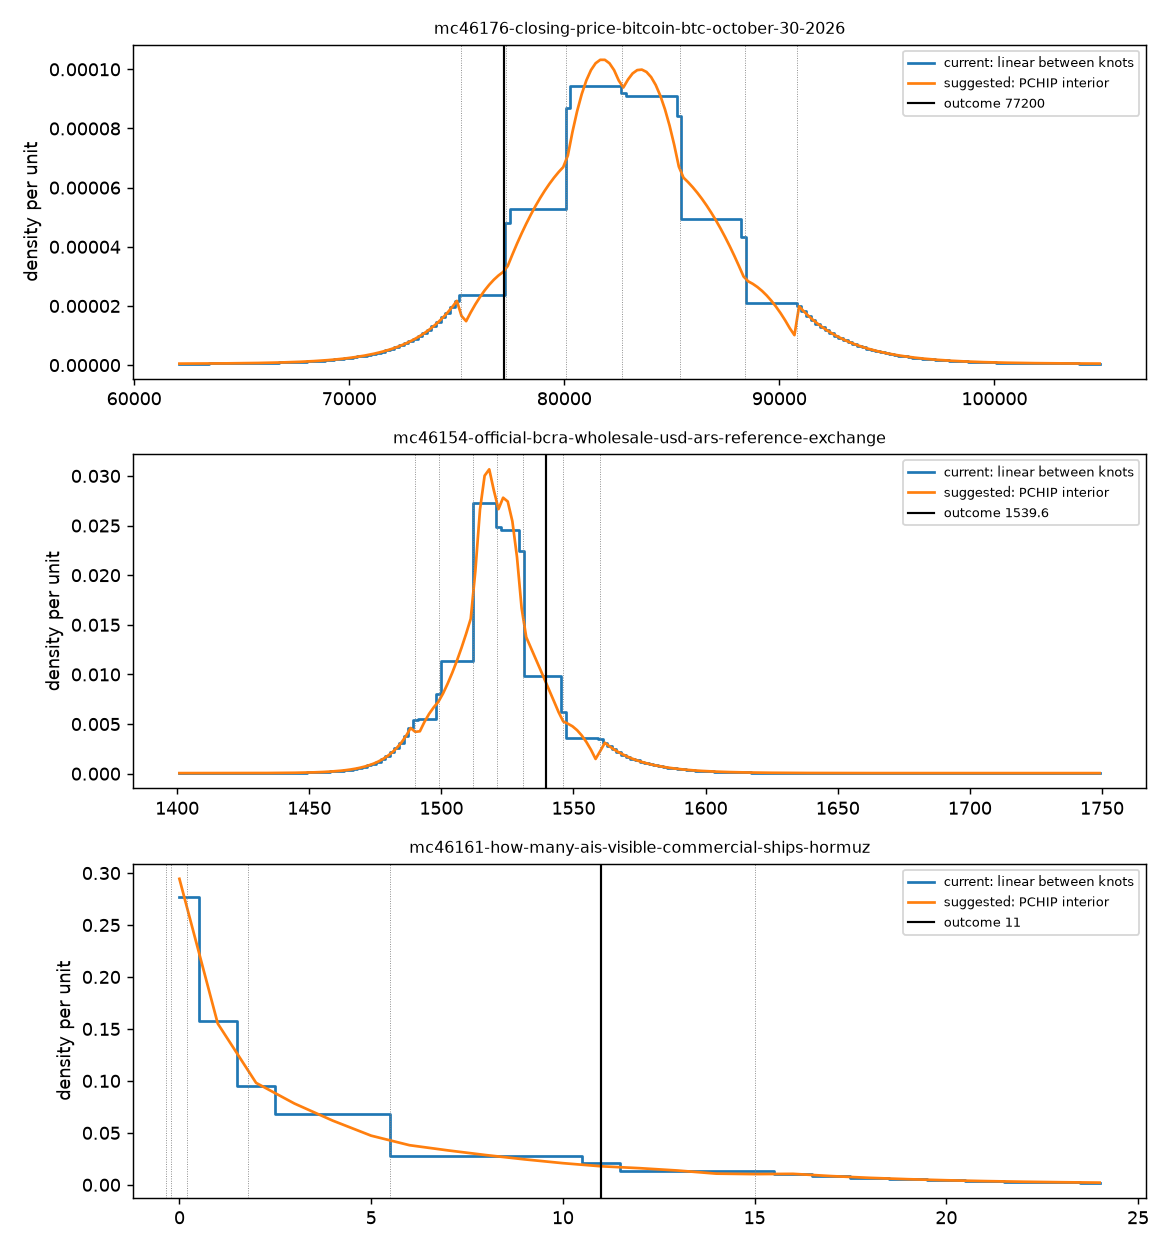
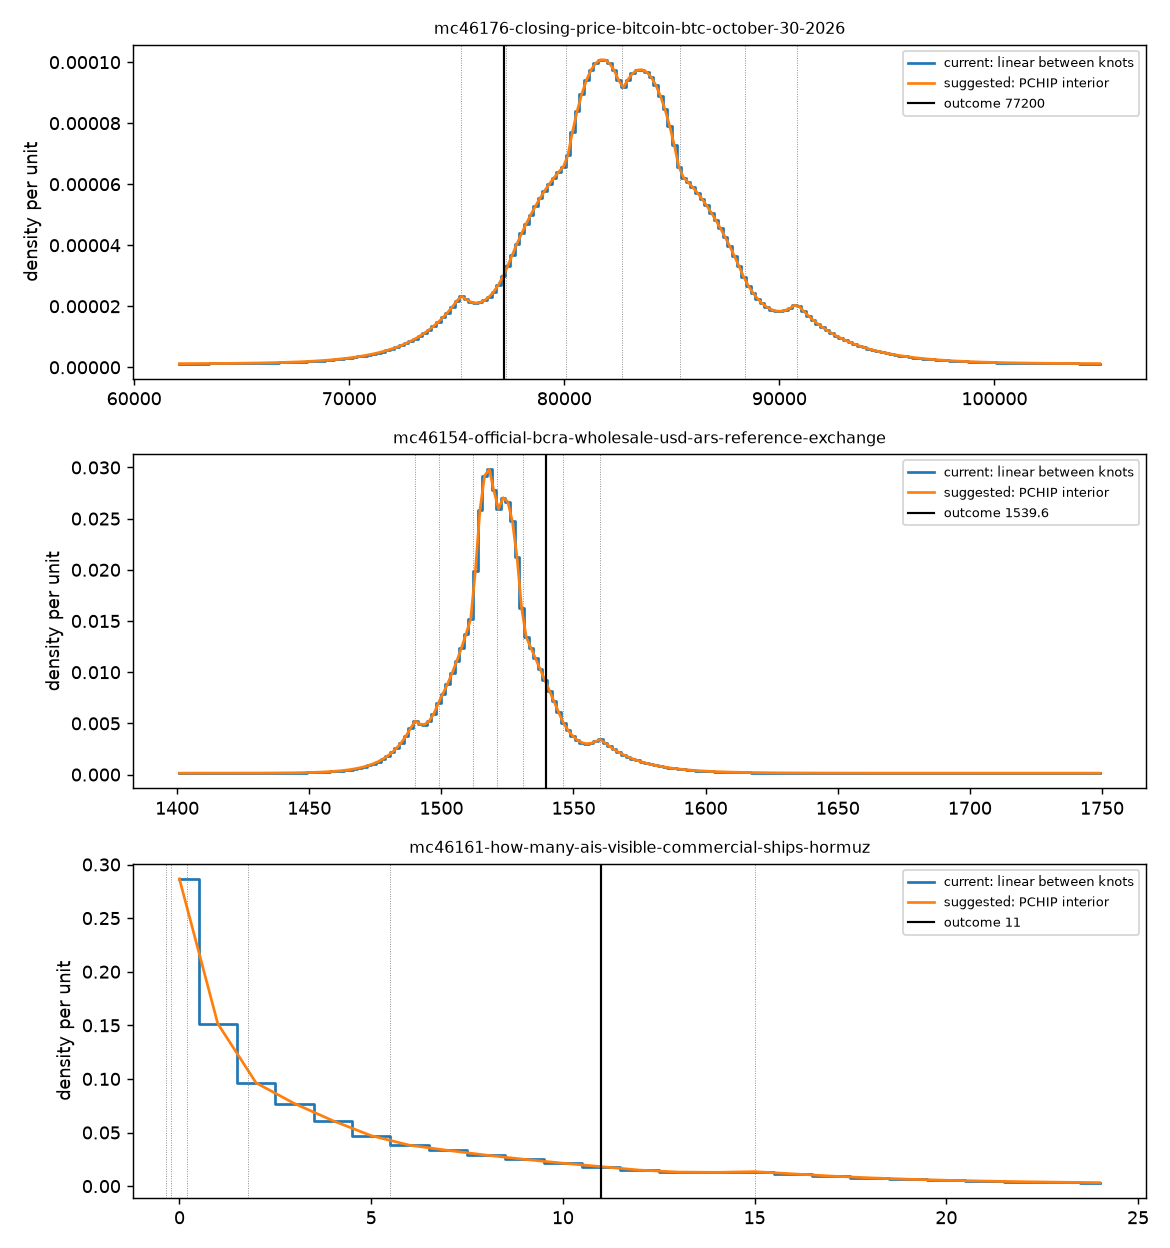
fix ruff check

diff --git a/plot_interp.py b/plot_interp.py
@@ -12,20 +12,25 @@ import numpy as np
 from scipy.interpolate import PchipInterpolator
 
 sys.path.insert(0, "scripts")
-import submit_metaculus as sm  # noqa: E402  (reuse the exact grid/tail/floor logic)
+import submit_metaculus as sm
 
 OUT = "interp_compare.png"
 
 
 def load(tag: str) -> tuple[str, dict, dict, float | None]:
     """Latest forecast percentiles, question scaling and outcome for a slug fragment."""
-    led = [json.loads(line) for line in open("ledger/forecasts.jsonl")]
+    with open("ledger/forecasts.jsonl", encoding="utf-8") as fh:
+        led = [json.loads(line) for line in fh]
     fc = next(r for r in reversed(led) if r["event"] == "forecast" and tag in r["slug"])
     slug = fc["slug"]
     outcome = next((r["outcome"] for r in led
                     if r["event"] == "resolution" and r["slug"] == slug), None)
-    raw = sorted(glob.glob(f"questions/{slug}/raw/metaculus-question-*.json"))[0]
-    return slug, fc["distribution"]["percentiles"], json.load(open(raw))["question"]["scaling"], outcome
+    # The snapshots are named with an ISO date, so the lexicographic minimum is the
+    # earliest: the question text as it stood when the forecast was made.
+    raw = min(glob.glob(f"questions/{slug}/raw/metaculus-question-*.json"))
+    with open(raw, encoding="utf-8") as fh:
+        scaling = json.load(fh)["question"]["scaling"]
+    return slug, fc["distribution"]["percentiles"], scaling, outcome
 
 
 def cdfs(pct: dict, scaling: dict) -> tuple[np.ndarray, np.ndarray, np.ndarray]:
